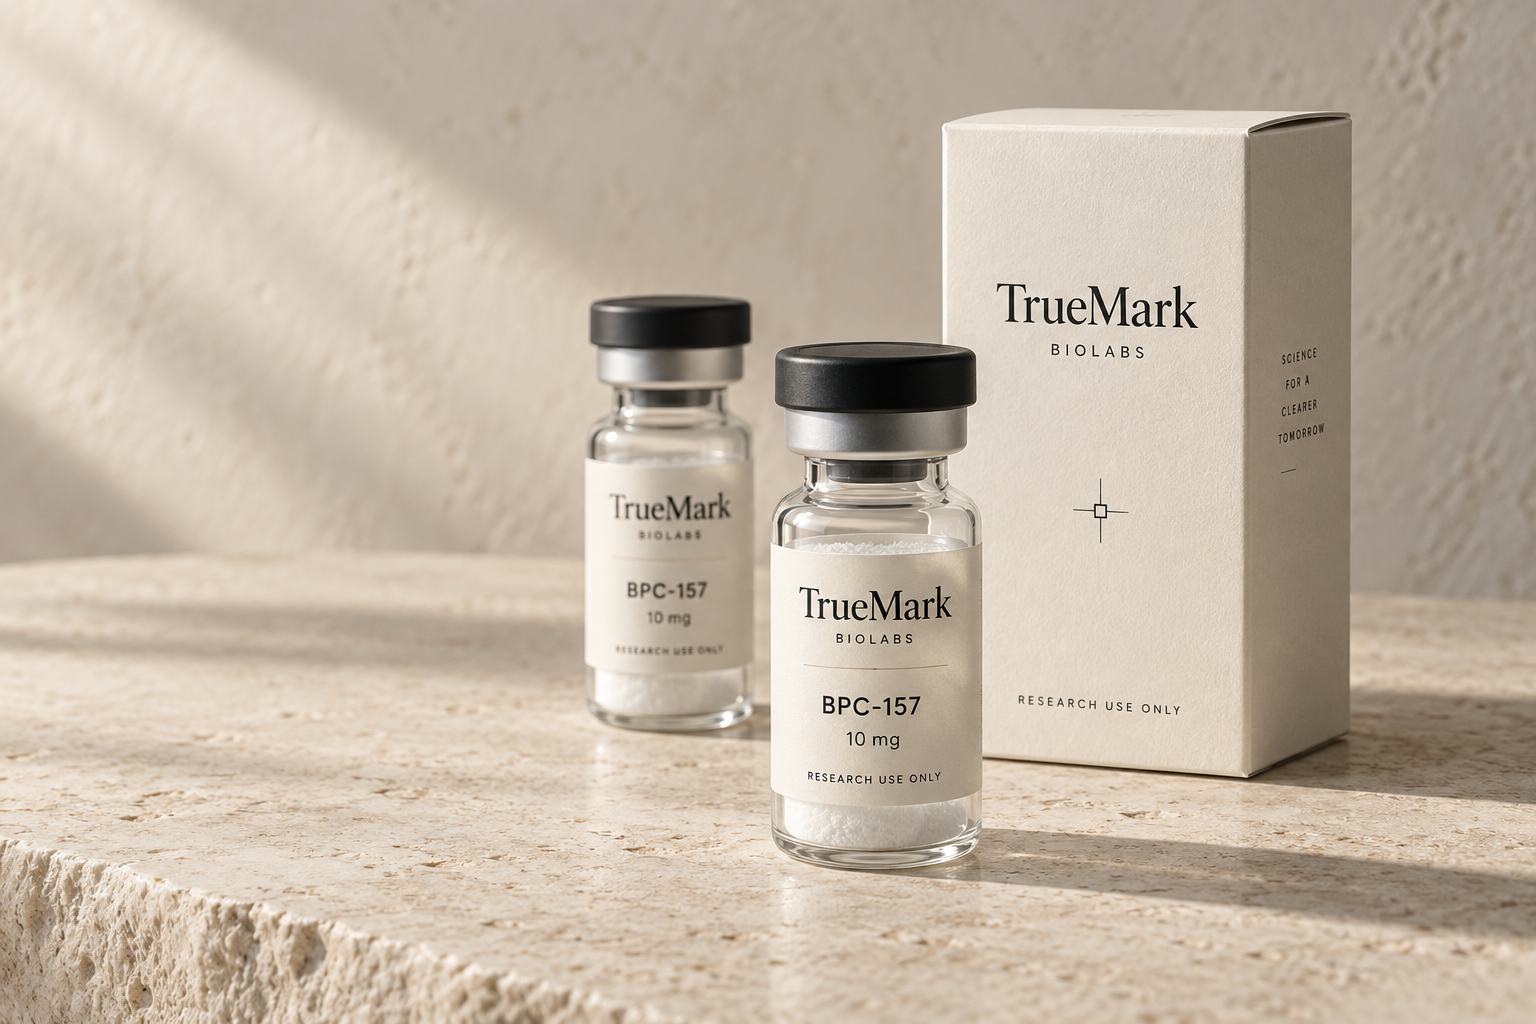
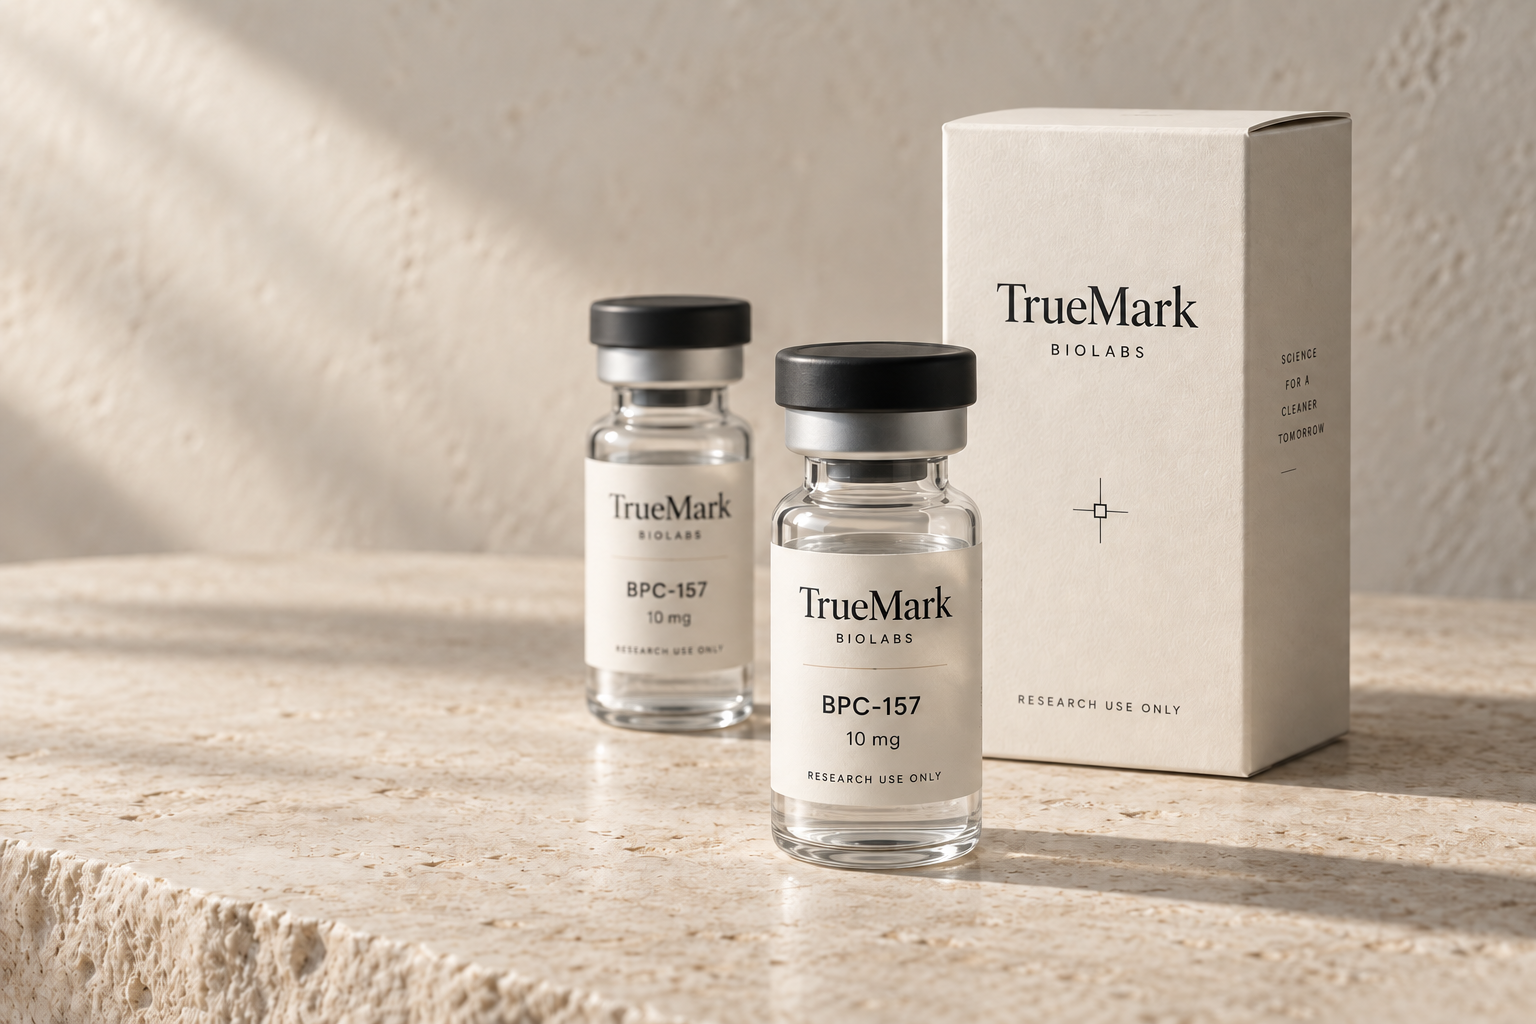
Correct vial imagery and presentation labels to clear liquid

diff --git a/src/App.tsx b/src/App.tsx
@@ -483,7 +483,7 @@ function ProductCard({
       <p className="product-note">
         {product.category === "lab-supplies"
           ? "Laboratory supply"
-          : "Lyophilized powder"}
+          : "Clear liquid"}
         <span>Lot traceable</span>
       </p>
     </Link>
@@ -891,7 +891,7 @@ function ProductPage() {
           <h1>{product.name}</h1>
           <div className="detail-subtitle">
             <span>{product.size}</span>
-            <span>{isSupply ? "Laboratory supply" : "Lyophilized powder"}</span>
+            <span>{isSupply ? "Laboratory supply" : "Clear liquid"}</span>
           </div>
           <p className="detail-intro">
             {isSupply
@@ -1061,7 +1061,7 @@ function ProductPage() {
                   ["Presentation", product.size],
                   [
                     "Form",
-                    isSupply ? "Laboratory reagent" : "Lyophilized powder",
+                    isSupply ? "Laboratory reagent" : "Clear liquid",
                   ],
                   ["Intended use", "Laboratory research only"],
                   ["Documentation", "Lot-specific Certificate of Analysis"],
@@ -1304,7 +1304,7 @@ function Verify() {
               </div>
               <div>
                 <span>Presentation</span>
-                <strong>10 mg · lyophilized powder</strong>
+                <strong>10 mg · clear liquid</strong>
               </div>
               <div>
                 <span>Record reference</span>

diff --git a/src/TypeStudy.tsx b/src/TypeStudy.tsx
@@ -125,7 +125,7 @@ function Compound() {
         <p className="ts-kicker">Peptides & proteins</p>
         <h2 className="ts-product-title">BPC-157</h2>
         <p className="ts-spec-line">
-          10 mg <span>Lyophilized powder</span>
+          10 mg <span>Clear liquid</span>
         </p>
         <p className="ts-body">
           BPC-157, supplied for laboratory research with lot-level traceability.
@@ -194,7 +194,7 @@ function Record() {
         <dl>
           <div>
             <dt>Presentation</dt>
-            <dd>Lyophilized powder</dd>
+            <dd>Clear liquid</dd>
           </div>
           <div>
             <dt>Lot identifier</dt>

diff --git a/docs/IMAGE-PROVENANCE.md b/docs/IMAGE-PROVENANCE.md
@@ -8,12 +8,30 @@ These are original concept assets for the local TrueMark design preview, generat
 
 File: `public/images/hero-still-life.png`
 
-Use case: product-mockup. Asset type: photographic hero for a refined research-compound catalog prototype called TrueMark Biolabs. Create one beautiful, photorealistic landscape studio still life, 1536x1024. Art direction: the calm, tactile cream-and-black research packaging, soft shadows and careful material lighting exemplified by https://oathresearch.com/, but original TrueMark branding and composition. On a warm pale limestone surface stand two premium clear borosilicate research vials with satin black crimp caps and ivory paper labels, beside a tall slim ivory carton. One vial prominent foreground, one further back, carton just behind; balanced diagonal composition concentrated around center-right with breathing room on the left and above. Natural soft sidelight from upper left, subtle long shadows, warm-white plaster background, slight surface texture. Label typography: beautiful black serif brand wordmark "TrueMark" and small sans-serif "BIOLABS"; secondary short exact text "BPC-157" and "10 mg", and tiny "RESEARCH USE ONLY". Carton carries TrueMark wordmark and a very restrained small square crosshair mark. Looks like an expensive real product shoot, physically accurate glass, understated professional scientific supplier, high detail. No people, no needles, no bright colors, no green, no gradients or decorative atoms, no floating objects, no fake certification seals, no website UI, no watermark. This image fills a wide rounded hero panel on an off-white website; make cropping forgiving and keep label readable.
+Historical generation prompt: Use case: product-mockup. Asset type: photographic hero for a refined research-compound catalog prototype called TrueMark Biolabs. Create one beautiful, photorealistic landscape studio still life, 1536x1024. Art direction: the calm, tactile cream-and-black research packaging, soft shadows and careful material lighting exemplified by https://oathresearch.com/, but original TrueMark branding and composition. On a warm pale limestone surface stand two premium clear borosilicate research vials with satin black crimp caps and ivory paper labels, beside a tall slim ivory carton. One vial prominent foreground, one further back, carton just behind; balanced diagonal composition concentrated around center-right with breathing room on the left and above. Natural soft sidelight from upper left, subtle long shadows, warm-white plaster background, slight surface texture. Label typography: beautiful black serif brand wordmark "TrueMark" and small sans-serif "BIOLABS"; secondary short exact text "BPC-157" and "10 mg", and tiny "RESEARCH USE ONLY". Carton carries TrueMark wordmark and a very restrained small square crosshair mark. Looks like an expensive real product shoot, physically accurate glass, understated professional scientific supplier, high detail. No people, no needles, no bright colors, no green, no gradients or decorative atoms, no floating objects, no fake certification seals, no website UI, no watermark. This image fills a wide rounded hero panel on an off-white website; make cropping forgiving and keep label readable.
+
+September 22 clear-liquid revision: replace the same asset path while preserving the framing, materials, labels, and light. Remove all powder, sediment, and cloudiness from both vials; depict clear, colorless illustrative liquid at roughly two-thirds of each vial's internal height with a subtle meniscus. This illustrative fill is not an actual fill specification. The historical prompt did not request powder, though the original output showed it.
 
 ## Catalog vial
 
 File: `public/images/research-vial.png`
 
-Use case: product-mockup. Create a single square 1024x1024 high-end catalog photograph for TrueMark Biolabs research compound website. One clear glass 3ml laboratory vial with an understated matte black crimp cap and subtle silver metal collar, standing upright, complete vial uncropped. Vial centered in lower-middle of image, about 68 percent of image height, ample margins; soft natural studio light from top left, realistic gentle shadow falling right, seamless pale warm off-white background #efeee9. Premium softly textured ivory label, black refined serif wordmark "TrueMark", tiny spaced sans-serif "BIOLABS", very fine horizontal hairline and tiny words "RESEARCH COMPOUND" and "RESEARCH USE ONLY". No specific compound name, no dosage, no CAS number, no purity percentage. The label is minimal and precise. Glass physically plausible, a little dry white lyophilized powder at bottom visible through glass base. Straight-on camera with a little top visibility of cap, attractive tactile studio realism similar in restraint to Oath Research packaging but its own brand. No carton, no other objects, no colored accent, no green, no giant shadows, no watermarks, no website UI. Entire background uniform neutral so image sits seamlessly on product card.
+Historical generation prompt: Use case: product-mockup. Create a single square 1024x1024 high-end catalog photograph for TrueMark Biolabs research compound website. One clear glass 3ml laboratory vial with an understated matte black crimp cap and subtle silver metal collar, standing upright, complete vial uncropped. Vial centered in lower-middle of image, about 68 percent of image height, ample margins; soft natural studio light from top left, realistic gentle shadow falling right, seamless pale warm off-white background #efeee9. Premium softly textured ivory label, black refined serif wordmark "TrueMark", tiny spaced sans-serif "BIOLABS", very fine horizontal hairline and tiny words "RESEARCH COMPOUND" and "RESEARCH USE ONLY". No specific compound name, no dosage, no CAS number, no purity percentage. The label is minimal and precise. Glass physically plausible, a little dry white lyophilized powder at bottom visible through glass base. Straight-on camera with a little top visibility of cap, attractive tactile studio realism similar in restraint to Oath Research packaging but its own brand. No carton, no other objects, no colored accent, no green, no giant shadows, no watermarks, no website UI. Entire background uniform neutral so image sits seamlessly on product card.
+
+September 22 clear-liquid revision: replace the same asset path while preserving the framing, materials, label, and light. Remove all powder, sediment, and cloudiness; depict clear, colorless illustrative liquid at roughly two-thirds of the vial's internal height with a subtle meniscus. This illustrative fill is not an actual fill specification.
 
 The generic vial is reused across the draft catalog. Production needs approved photographs for each presentation, including the laboratory supply. The rendered page provides the actual compound and size as text outside the photograph.
+
+## Exact clear-liquid edit prompts
+
+Built-in image-generation edits, each using its original asset as the referenced image. Each prompt consists of this prefix, its asset-specific instruction below, and the shared preservation suffix.
+
+Prefix: Use case: precise-object-edit. Edit the supplied photograph with one localized change:
+
+- `public/images/hero-still-life.png`: Both vials, including the foreground and background vial, must contain perfectly clear, colorless transparent liquid. Remove ALL visible white powder, grains, sediment and cloudy material from both vials, including the base below each label and the shoulder above the label. The liquid should fill roughly two thirds of each vial's internal height with a physically plausible subtle meniscus and clear refractive optics. No added text or fill-volume markings.
+
+- `public/images/research-vial.png`: The single vial must contain perfectly clear, colorless transparent liquid instead of powder. Remove ALL white powder, grains, sediment and cloudiness from the visible glass at the base. Fill roughly two thirds of the vial's internal height, with clear glass/liquid refraction, a subtle physically plausible liquid surface behind the label or at its upper edge. It must read as clear liquid, not an empty vial. No added text or volume markings.
+
+- `public/images/studies/object.png`: The single vial on the stone plinth must contain perfectly clear, colorless transparent liquid instead of powder. Remove ALL white powder and grains at its bottom. Fill about two thirds of its internal height, with realistic optical refraction and a subtle meniscus; clear transparent base with no sediment, foam or cloudiness. No added text or volume markings.
+
+Shared suffix: Preserve the original composition, camera angle, exact framing and aspect ratio, object dimensions and positions, caps, all label typography and wording, carton if present, background, stone surfaces, natural lighting, shadows, colors, and photographic detail. Do not redesign, relabel, reframe, or add objects. The only intended change is replacing solid powder contents with clear liquid.

diff --git a/docs/VISUAL-STUDIES.md b/docs/VISUAL-STUDIES.md
@@ -24,9 +24,12 @@ Saved asset: `public/images/studies/glass.png` (1536 × 1024).
 
 Use case: product-mockup. Wide landscape 1536x1024 premium editorial macro photograph for a minimal research brand homepage. Extreme magnification of curved clear borosilicate glass wall and thick base of a small research vial at far right, most of the object outside frame, only a sliver of an unprinted ivory label visible near upper right. Beautiful optical refractions, tiny material imperfections, and a strong refracted shadow falling across a warm white surface. Object sculptural and nearly abstract, no full vial visible, glass fills right 55 percent, left45percent clean pale ivory negative space for typography. Grazing natural daylight, highly tactile real photography, sharp optical edges dissolve into shallow depth, neutral pearl and ink and warm white, no green. No text, typography, logo, medical claim, human, syringe, bright colors, floating object, UI, border, or watermark. One photograph.
 
+September 22 review: retained unchanged. The macro crop has no visible powder.
+
 ### object
 
 Saved asset: `public/images/studies/object.png` (1536 × 1024).
 
-Use case: product-mockup. Wide landscape 1536x1024 high-end architectural product photograph. One single small clear borosilicate research vial with satin black crimp cap and narrow silver collar stands upright on a smooth pale limestone monolith plinth on the right half of frame. Art gallery object study, long hard-edged diagonal shadow from afternoon daylight, warm off-white plaster backdrop, tactile natural stone with no busy veins. Vial fills about half the image height, positioned at 70 percent horizontally, negative space entire left half. Small amount of white dry lyophilized powder in bottom, no liquid. Cream wrap label with restrained contemporary sans-serif text exactly 'TrueMark', smaller uppercase 'BIOLABS', and very small 'RESEARCH USE ONLY'; no other text, no dose or compound, no purity claims. Ultra-realistic editorial studio photograph, quiet rigorous industrial design quality, neutral warm whites, matte black, glass. No serif lettering, multiple vials, extra boxes, people, needles, plants, green cast, floating object, UI, collage, or watermark.
+Historical generation prompt: Use case: product-mockup. Wide landscape 1536x1024 high-end architectural product photograph. One single small clear borosilicate research vial with satin black crimp cap and narrow silver collar stands upright on a smooth pale limestone monolith plinth on the right half of frame. Art gallery object study, long hard-edged diagonal shadow from afternoon daylight, warm off-white plaster backdrop, tactile natural stone with no busy veins. Vial fills about half the image height, positioned at 70 percent horizontally, negative space entire left half. Small amount of white dry lyophilized powder in bottom, no liquid. Cream wrap label with restrained contemporary sans-serif text exactly 'TrueMark', smaller uppercase 'BIOLABS', and very small 'RESEARCH USE ONLY'; no other text, no dose or compound, no purity claims. Ultra-realistic editorial studio photograph, quiet rigorous industrial design quality, neutral warm whites, matte black, glass. No serif lettering, multiple vials, extra boxes, people, needles, plants, green cast, floating object, UI, collage, or watermark.
 
+September 22 clear-liquid revision: replace the same asset path while preserving the framing, materials, label, and light. Remove all powder, sediment, and cloudiness; depict clear, colorless illustrative liquid at roughly two-thirds of the vial's internal height with a subtle meniscus. This illustrative fill is not an actual fill specification.

diff --git a/docs/VERIFICATION.md b/docs/VERIFICATION.md
@@ -62,3 +62,12 @@ Added an isolated, lazy-loaded `/visual-study` route with four original generate
 - Confirmed direction switching, comparison-card-to-preview navigation, URL updates, and the primary catalog link. Catalog navigation removes the study component. No browser errors or warnings were reported.
 - Temporary viewport overrides were reset after review. These are static imagery studies; no motion treatment has been selected or implemented.
 - Keyboard Tab moves between the direction controls with a visible focus outline. Strict TypeScript and the production build pass.
+
+## Clear-liquid vial correction — September 22, 2026
+
+Riley clarified that the prototype should depict transparent fluid. Edited the three shared powder-containing photographs in place: hero still life, catalog vial, and sculptural object study. The glass macro had no visible powder and was retained. All consumers share these paths, including search, catalog cards, product detail, bag, quality, About, access, and the typography/visual studies. Six source presentation labels now say “Clear liquid”; quantities and illustrative certificate values remain unchanged.
+
+- Parent visually approved the generated edits and inspected the live homepage, product detail, and object study after integration. Composition, labels, and lighting were preserved; no visible powder remains in those assets.
+- Sol handled scoped copy changes, asset copying, and build checks. Terra audited asset consumers and documented provenance. Parent retained creative direction and visual judgment.
+- No powder/lyophilized wording remains in active source. Original prompts and screenshots remain historical records. Liquid fill levels are illustrative, not product specifications.
+- Production build and `git diff --check` pass. No layout or interaction changes were introduced.
